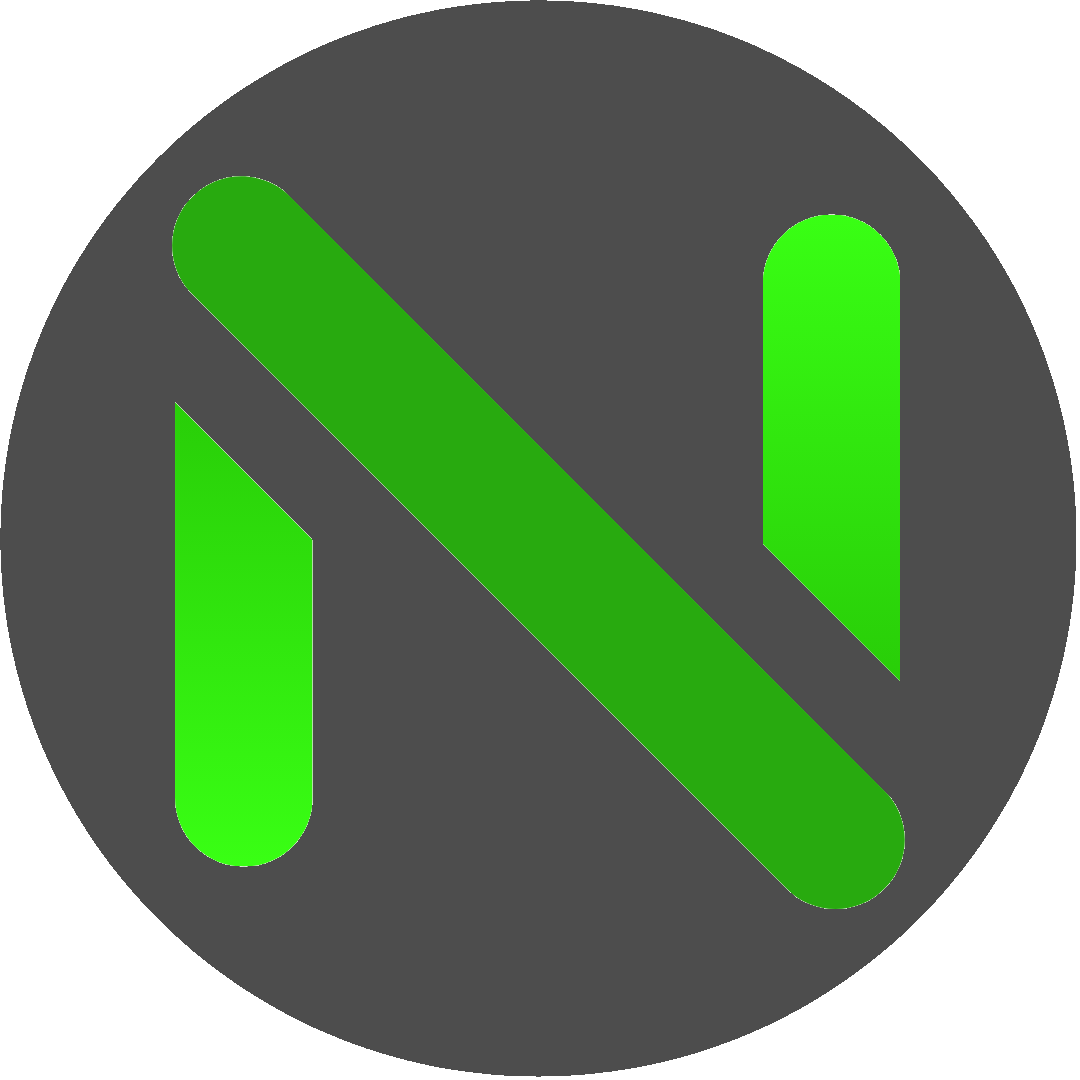
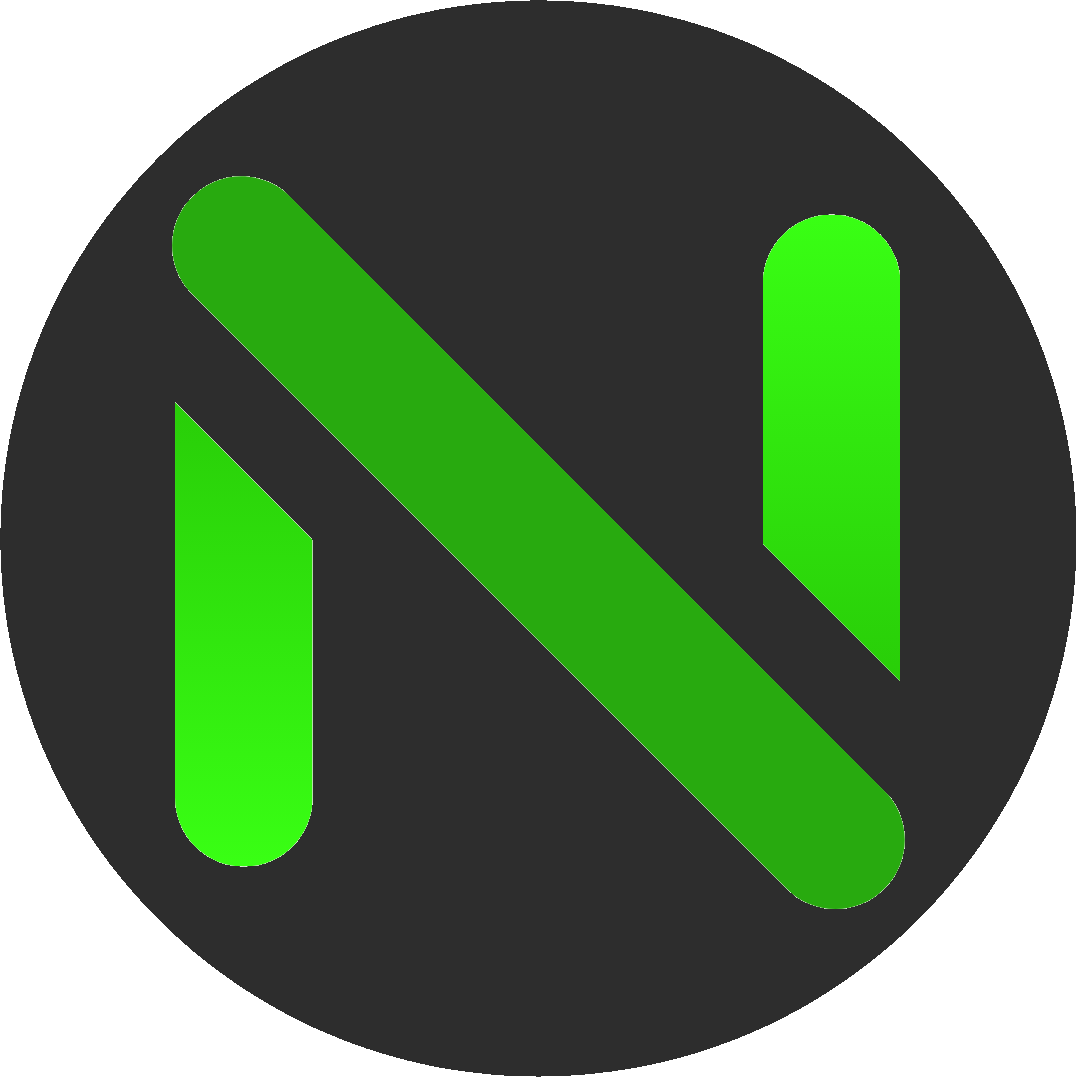
:D

diff --git a/include/config.hpp b/include/config.hpp
@@ -30,16 +30,18 @@ const std::vector<std::string> menuButtonLabels[] =
     { "Open", "Save", "Save as", "Exit" },
     { "Copy", "Paste", "Cut", "Find", "Replace", "Select All" },
     { "Hide lines", "Go to line", "Time & Date", "Change theme" },
-    { "Light", "Dark", "Solarized", "Midnight", "Abyss", "Neon", "Red", "Povesti din folclorul maghiar" }
+    { "Light", "Dark", "Solarized Light", "Solarized Dark", "Midnight", "Abyss", "Obsidian", "Neon", "Red", "Povesti din folclorul maghiar" }
 };
 
 enum Theme
 {
     LIGHT,
     DARK,
-    SOLARIZED,
+    SOLARIZED_LIGHT,
+    SOLARIZED_DARK,
     MIDNIGHT,
     ABYSS,
+    OBSIDIAN,
     NEON,
     RED,
     POVESTI_DIN_FOLCLORUL_MAGHIAR,
@@ -71,13 +73,15 @@ struct ButtonProperties
 
 const std::map<std::string, Theme> themeNamesMapping = 
 {
-    { "Light",     Theme::LIGHT     },
-    { "Dark",      Theme::DARK      },
-    { "Solarized", Theme::SOLARIZED },
-    { "Midnight",  Theme::MIDNIGHT  },
-    { "Abyss",     Theme::ABYSS     },
-    { "Neon",      Theme::NEON      },
-    { "Red",       Theme::RED       },
+    { "Light",                         Theme::LIGHT                         },
+    { "Dark",                          Theme::DARK                          },
+    { "Solarized Light",               Theme::SOLARIZED_LIGHT               },
+    { "Solarized Dark",                Theme::SOLARIZED_DARK                },
+    { "Midnight",                      Theme::MIDNIGHT                      },
+    { "Abyss",                         Theme::ABYSS                         },
+    { "Obsidian",                      Theme::OBSIDIAN                      },
+    { "Neon",                          Theme::NEON                          },
+    { "Red",                           Theme::RED                           },
     { "Povesti din folclorul maghiar", Theme::POVESTI_DIN_FOLCLORUL_MAGHIAR }
 };
 
@@ -119,22 +123,40 @@ const std::map<Theme, ThemeColors> themeColorsMapping =
             sf::Color(40, 44, 52, 255)       // textbox outline  
         }
     },
-    {
-        Theme::SOLARIZED,
+    { 
+        Theme::SOLARIZED_LIGHT,
         {
-            sf::Color(253, 246, 227, 255),   // background
-            sf::Color(7, 54, 66, 255),       // text
-            sf::Color(147, 161, 161, 255),   // separator
-            sf::Color(238, 232, 213, 255),   // bar
-            sf::Color(88, 110, 117, 255),    // line numbers text
-            sf::Color(238, 232, 213, 255),   // line numbers background
-            sf::Color(0, 43, 54, 30),        // cursor line highlight
-            sf::Color(0, 43, 54, 40),        // select highlight
-            sf::Color(238, 232, 213, 255),   // button background
-            sf::Color(181, 137, 0, 255),     // button hover
-            sf::Color(131, 148, 150, 255),   // button outline
-            sf::Color(238, 232, 213, 255),   // textbox background
-            sf::Color(147, 161, 161, 255)    // textbox outline
+            sf::Color(253, 246, 227, 255),   // background (light beige)
+            sf::Color(7, 54, 66, 255),       // text (dark blue-gray)
+            sf::Color(147, 161, 161, 255),   // separator (gray)
+            sf::Color(238, 232, 213, 255),   // bar (light beige)
+            sf::Color(88, 110, 117, 255),    // line numbers text (grayish blue)
+            sf::Color(238, 232, 213, 255),   // line numbers background (light beige)
+            sf::Color(0, 43, 54, 30),        // cursor line highlight (subtle)
+            sf::Color(0, 43, 54, 40),        // select highlight (subtle)
+            sf::Color(238, 232, 213, 255),   // button background (light beige)
+            sf::Color(181, 137, 0, 255),     // button hover (yellow-orange)
+            sf::Color(131, 148, 150, 255),   // button outline (gray-blue)
+            sf::Color(238, 232, 213, 255),   // textbox background (light beige)
+            sf::Color(147, 161, 161, 255)    // textbox outline (gray)
+        }
+    },
+    { 
+        Theme::SOLARIZED_DARK,
+        {
+            sf::Color(0, 43, 54, 255),        // background
+            sf::Color(131, 148, 150, 255),    // text
+            sf::Color(88, 110, 117, 255),     // separator
+            sf::Color(7, 54, 66, 255),        // bar
+            sf::Color(147, 161, 161, 255),    // line numbers text
+            sf::Color(7, 54, 66, 255),        // line numbers background
+            sf::Color(0, 43, 54, 30),         // cursor line highlight
+            sf::Color(255, 255, 255, 40),     // select highlight
+            sf::Color(7, 54, 66, 255),        // button background
+            sf::Color(0, 43, 54, 255),        // button hover
+            sf::Color(88, 110, 117, 255),     // button outline
+            sf::Color(7, 54, 66, 255),        // textbox background
+            sf::Color(7, 54, 66, 255)         // textbox outline
         }
     },
     {
@@ -158,34 +180,52 @@ const std::map<Theme, ThemeColors> themeColorsMapping =
     {
         Theme::ABYSS,
         {
-            sf::Color(38, 50, 56, 255),      // background 
-            sf::Color(183, 183, 255, 255),   // text
-            sf::Color(75, 85, 94, 255),      // separator
-            sf::Color(48, 61, 69, 255),      // bar
-            sf::Color(130, 170, 255, 255),   // line
-            sf::Color(48, 61, 69, 255),      // line numbers background
-            sf::Color(255, 255, 255, 30),    // cursor line highlight  
-            sf::Color(255, 255, 255, 40),    // select highlight  
-            sf::Color(48, 61, 69, 255),      // button background
-            sf::Color(100, 120, 140, 255),   // button hover
-            sf::Color(75, 85, 94, 255),      // button outline  
-            sf::Color(48, 61, 69, 255),      // textbox background
-            sf::Color(75, 85, 94, 255)       // textbox outline
+            sf::Color(12, 12, 17, 255),      // background
+            sf::Color(180, 180, 180, 255),   // text
+            sf::Color(50, 50, 70, 255),      // separator
+            sf::Color(40, 40, 60, 255),      // bar
+            sf::Color(100, 100, 120, 255),   // line numbers text
+            sf::Color(20, 20, 30, 255),      // line numbers background
+            sf::Color(0, 0, 0, 40),          // cursor line highlight
+            sf::Color(255, 255, 255, 40),    // select highlight
+            sf::Color(40, 40, 60, 255),      // button background
+            sf::Color(60, 60, 80, 255),      // button hover
+            sf::Color(20, 20, 30, 255),      // button outline
+            sf::Color(40, 40, 60, 255),      // textbox background
+            sf::Color(40, 40, 60, 255),      // textbox outline
+        }
+    },
+    { 
+        Theme::OBSIDIAN,
+        {
+            sf::Color(35, 30, 45, 255),      // background
+            sf::Color(204, 204, 204, 255),   // text
+            sf::Color(35, 30, 45, 255),      // separator
+            sf::Color(50, 45, 65, 255),      // bar
+            sf::Color(150, 140, 180, 255),   // line numbers text
+            sf::Color(60, 50, 75, 255),      // line numbers background
+            sf::Color(56, 50, 80, 30),       // cursor line highlight
+            sf::Color(255, 255, 255, 40),    // select highlight
+            sf::Color(50, 45, 65, 255),      // button background
+            sf::Color(138, 43, 226, 255),    // button hover
+            sf::Color(35, 30, 45, 255),      // button outline
+            sf::Color(50, 45, 65, 255),      // textbox background
+            sf::Color(50, 45, 65, 255)       // textbox outline
         }
     },
     {
         Theme::NEON,
         {
             sf::Color(40, 170, 15, 255),     // background
-            sf::Color(12, 12, 12, 255),      // text
+            sf::Color(45, 45, 45, 255),      // text
             sf::Color(55, 255, 20, 255),     // separator
             sf::Color(55, 255, 20, 255),     // bar
-            sf::Color(77, 77, 77, 255),   // line numbers text
+            sf::Color(45, 45, 45, 255),      // line numbers text
             sf::Color(45, 186, 20, 255),     // line numbers background
             sf::Color(0, 0, 0, 30),          // cursor line highlight
-            sf::Color(255, 255, 255, 40),    // select highlight
+            sf::Color(0, 0, 0, 40),          // select highlight
             sf::Color(55, 255, 20, 255),     // button background
-            sf::Color(185, 185, 185, 255),   // button hover
+            sf::Color(22, 140, 1, 255),      // button hover
             sf::Color(40, 170, 15, 255),     // button outline
             sf::Color(55, 255, 20, 255),     // textbox background
             sf::Color(55, 255, 20, 255),     // textbox outline
@@ -212,19 +252,19 @@ const std::map<Theme, ThemeColors> themeColorsMapping =
     {
         Theme::POVESTI_DIN_FOLCLORUL_MAGHIAR,
         {
-            sf::Color(255, 221, 89, 255),    // background
-            sf::Color(204, 0, 0, 255),       // text
-            sf::Color(255, 170, 0, 255),     // separator
-            sf::Color(255, 221, 89, 255),    // bar
-            sf::Color(204, 0, 0, 255),       // line numbers text
-            sf::Color(255, 221, 89, 255),    // line numbers background
-            sf::Color(255, 170, 0, 30),      // cursor line highlight 
-            sf::Color(255, 170, 0, 40),      // select highlight
-            sf::Color(255, 221, 89, 255),    // button background
+            sf::Color(255, 211, 63, 255),    // background
+            sf::Color(181, 4, 4, 255),       // text
+            sf::Color(204, 14, 14),          // separator
+            sf::Color(255, 211, 63, 255),    // bar
+            sf::Color(181, 4, 4, 255),       // line numbers text
+            sf::Color(255, 211, 63, 255),    // line numbers background
+            sf::Color(0, 0, 0, 30),          // cursor line highlight 
+            sf::Color(0, 0, 0, 40),          // select highlight
+            sf::Color(255, 211, 63, 255),    // button background
             sf::Color(255, 200, 50, 255),    // button hover
-            sf::Color(204, 0, 0, 255),       // button outline
-            sf::Color(255, 221, 89, 255),    // textbox background
-            sf::Color(255, 170, 0, 255)      // textbox outline
+            sf::Color(204, 14, 14),          // button outline
+            sf::Color(255, 211, 63, 255),    // textbox background
+            sf::Color(204, 14, 14)           // textbox outline
         }
     }
 };

diff --git a/src/helpers.cpp b/src/helpers.cpp
@@ -37,8 +37,8 @@ void Helpers::changeTheme(Theme _theme, sf::Text &t1, sf::Text &t2)
     zoomInButton->updateThemeColors();
     zoomOutButton->updateThemeColors();
 
-    zoomInButton->setOutline(theme != Theme::MIDNIGHT && theme != Theme::ABYSS && theme != Theme::DARK && theme != Theme::NEON);
-    zoomOutButton->setOutline(theme != Theme::MIDNIGHT && theme != Theme::ABYSS && theme != Theme::DARK && theme != Theme::NEON);
+    zoomInButton->setOutline(theme != Theme::MIDNIGHT && theme != Theme::ABYSS && theme != Theme::DARK && theme != Theme::NEON && theme != Theme::SOLARIZED_DARK && theme != Theme::OBSIDIAN);
+    zoomOutButton->setOutline(theme != Theme::MIDNIGHT && theme != Theme::ABYSS && theme != Theme::DARK && theme != Theme::NEON && theme != Theme::SOLARIZED_DARK && theme != Theme::OBSIDIAN);
  
     for (int i = 0; i < 4; i++)
     {

diff --git a/src/menu.cpp b/src/menu.cpp
@@ -39,12 +39,12 @@ Menu::Menu(Button *_toggleButton, const std::vector<std::string> &buttonLabels, 
     buttons = new Button*[buttonCount];
     for (int i = 0; i < buttonCount; i++)
     {
-        sf::Vector2f buttonPosition(position.x + properties.size.x, position.y + (properties.size.y - 1) * i);
+        sf::Vector2f buttonPosition(position.x + properties.size.x - 1, position.y + (properties.size.y - 1) * i);
         buttons[i] = new Button(buttonLabels[i], buttonPosition, true, ButtonSize::LARGE, false);
     }
 
     container.setSize(sf::Vector2f(properties.size.x, (properties.size.y - 1) * buttonCount + 1)); 
-    container.setPosition(position + sf::Vector2f(properties.size.x, 0));
+    container.setPosition(position + sf::Vector2f(properties.size.x - 1, 0));
 }
 
 

diff --git a/src/main.cpp b/src/main.cpp
@@ -38,7 +38,12 @@ int main()
     sf::View view;
     sf::Image icon;
 
-    icon.loadFromFile("assets/images/icon2.png");
+    sf::Texture texture;
+    texture.loadFromFile("assets/images/povesti.png");
+    sf::Sprite povesti;
+    povesti.setTexture(texture, true);
+
+    icon.loadFromFile("assets/images/icon.png");
     window.setIcon(icon.getSize().x, icon.getSize().y, icon.getPixelsPtr());
 
     font.loadFromFile("assets/fonts/kanit.ttf");
@@ -1148,6 +1153,8 @@ int main()
             }
 
         window.clear(currentThemeColors.background);
+        if (theme == Theme::POVESTI_DIN_FOLCLORUL_MAGHIAR)
+            window.draw(povesti);
 
         cursorTimer++;
         cursorTimer %= timeUnit * 2;

diff --git a/src/button.cpp b/src/button.cpp
@@ -18,7 +18,6 @@ Button::Button(const std::string &label, const sf::Vector2f &position, const boo
     container.setOutlineThickness(outline ? -1 : 0);
 
     content = sf::Text(label, font, properties.fontSize);
-    // content.setStyle(sf::Text::Bold);
     content.setFillColor(currentThemeColors.text);
     content.setLetterSpacing(properties.letterSpacing);
 

diff --git a/src/textBox.cpp b/src/textBox.cpp
@@ -11,7 +11,6 @@ TextBox::TextBox(const std::string &_content, const sf::Vector2f &position, bool
     container.setOutlineThickness(outline ? -1 : 0);
 
     content = sf::Text(_content, font, textBoxFontSize);
-    // content.setStyle(sf::Text::Bold);
     content.setFillColor(currentThemeColors.text);
     content.setLetterSpacing(textBoxLetterSpacing);
 
